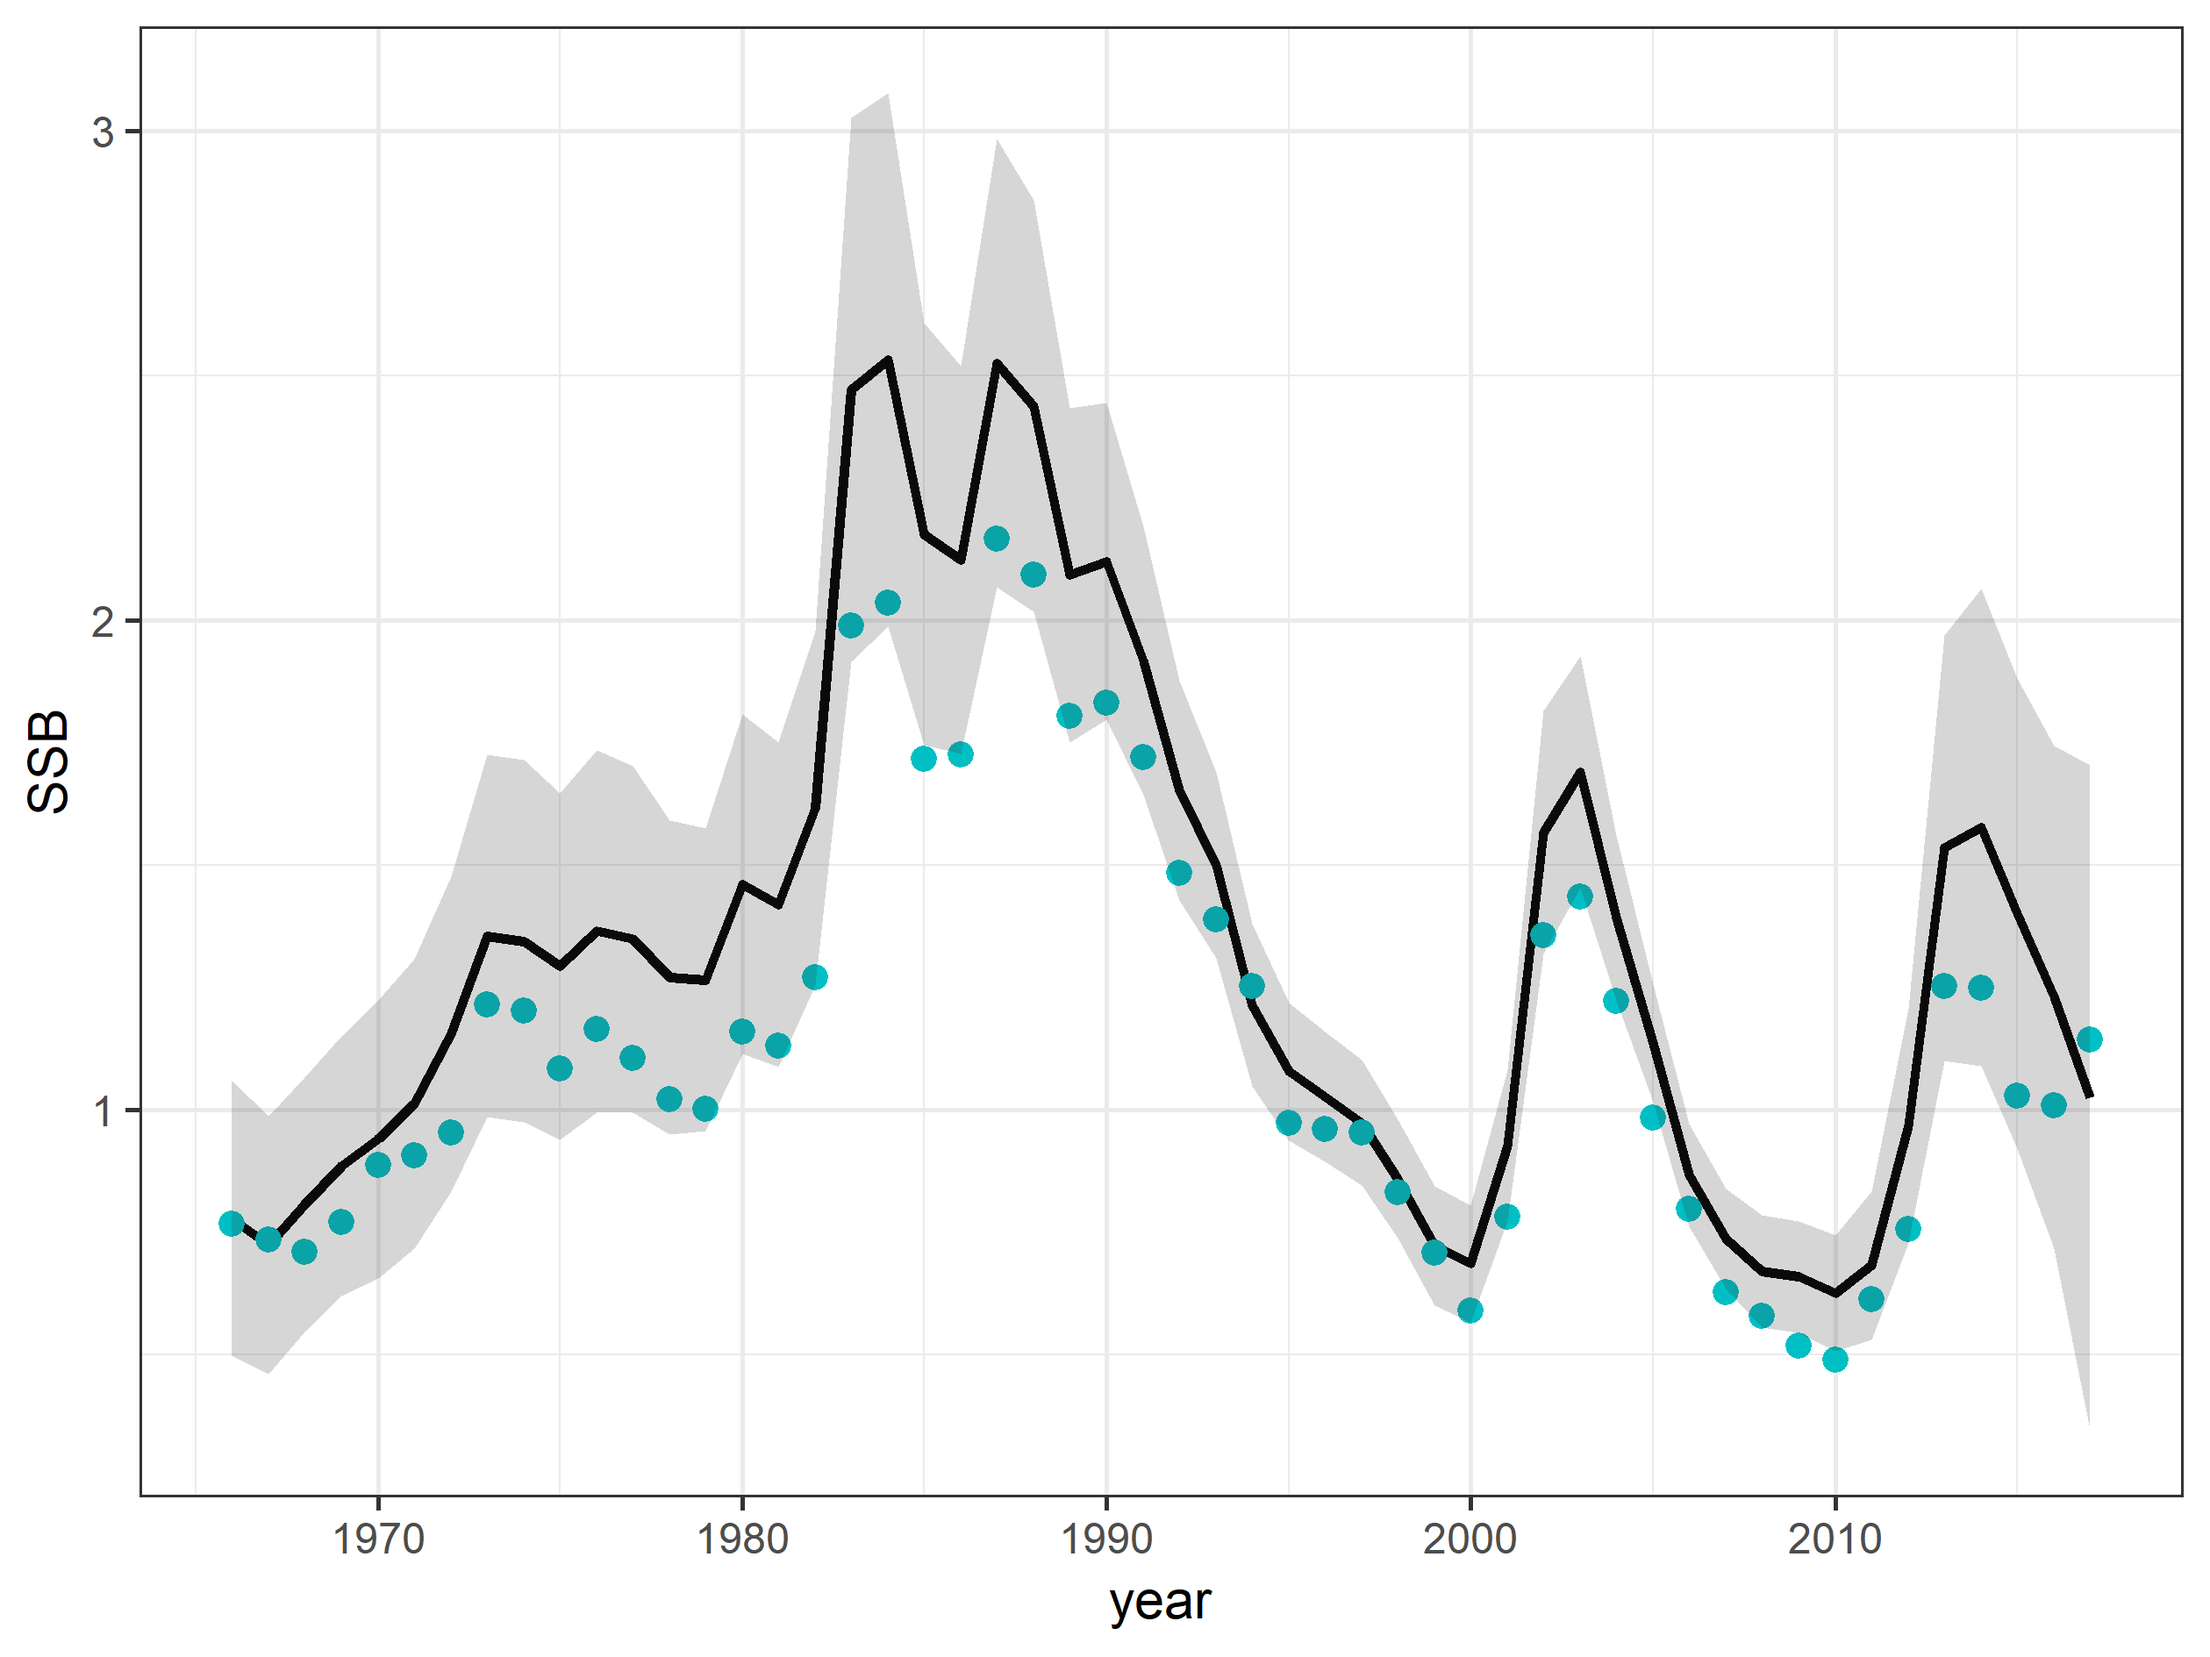
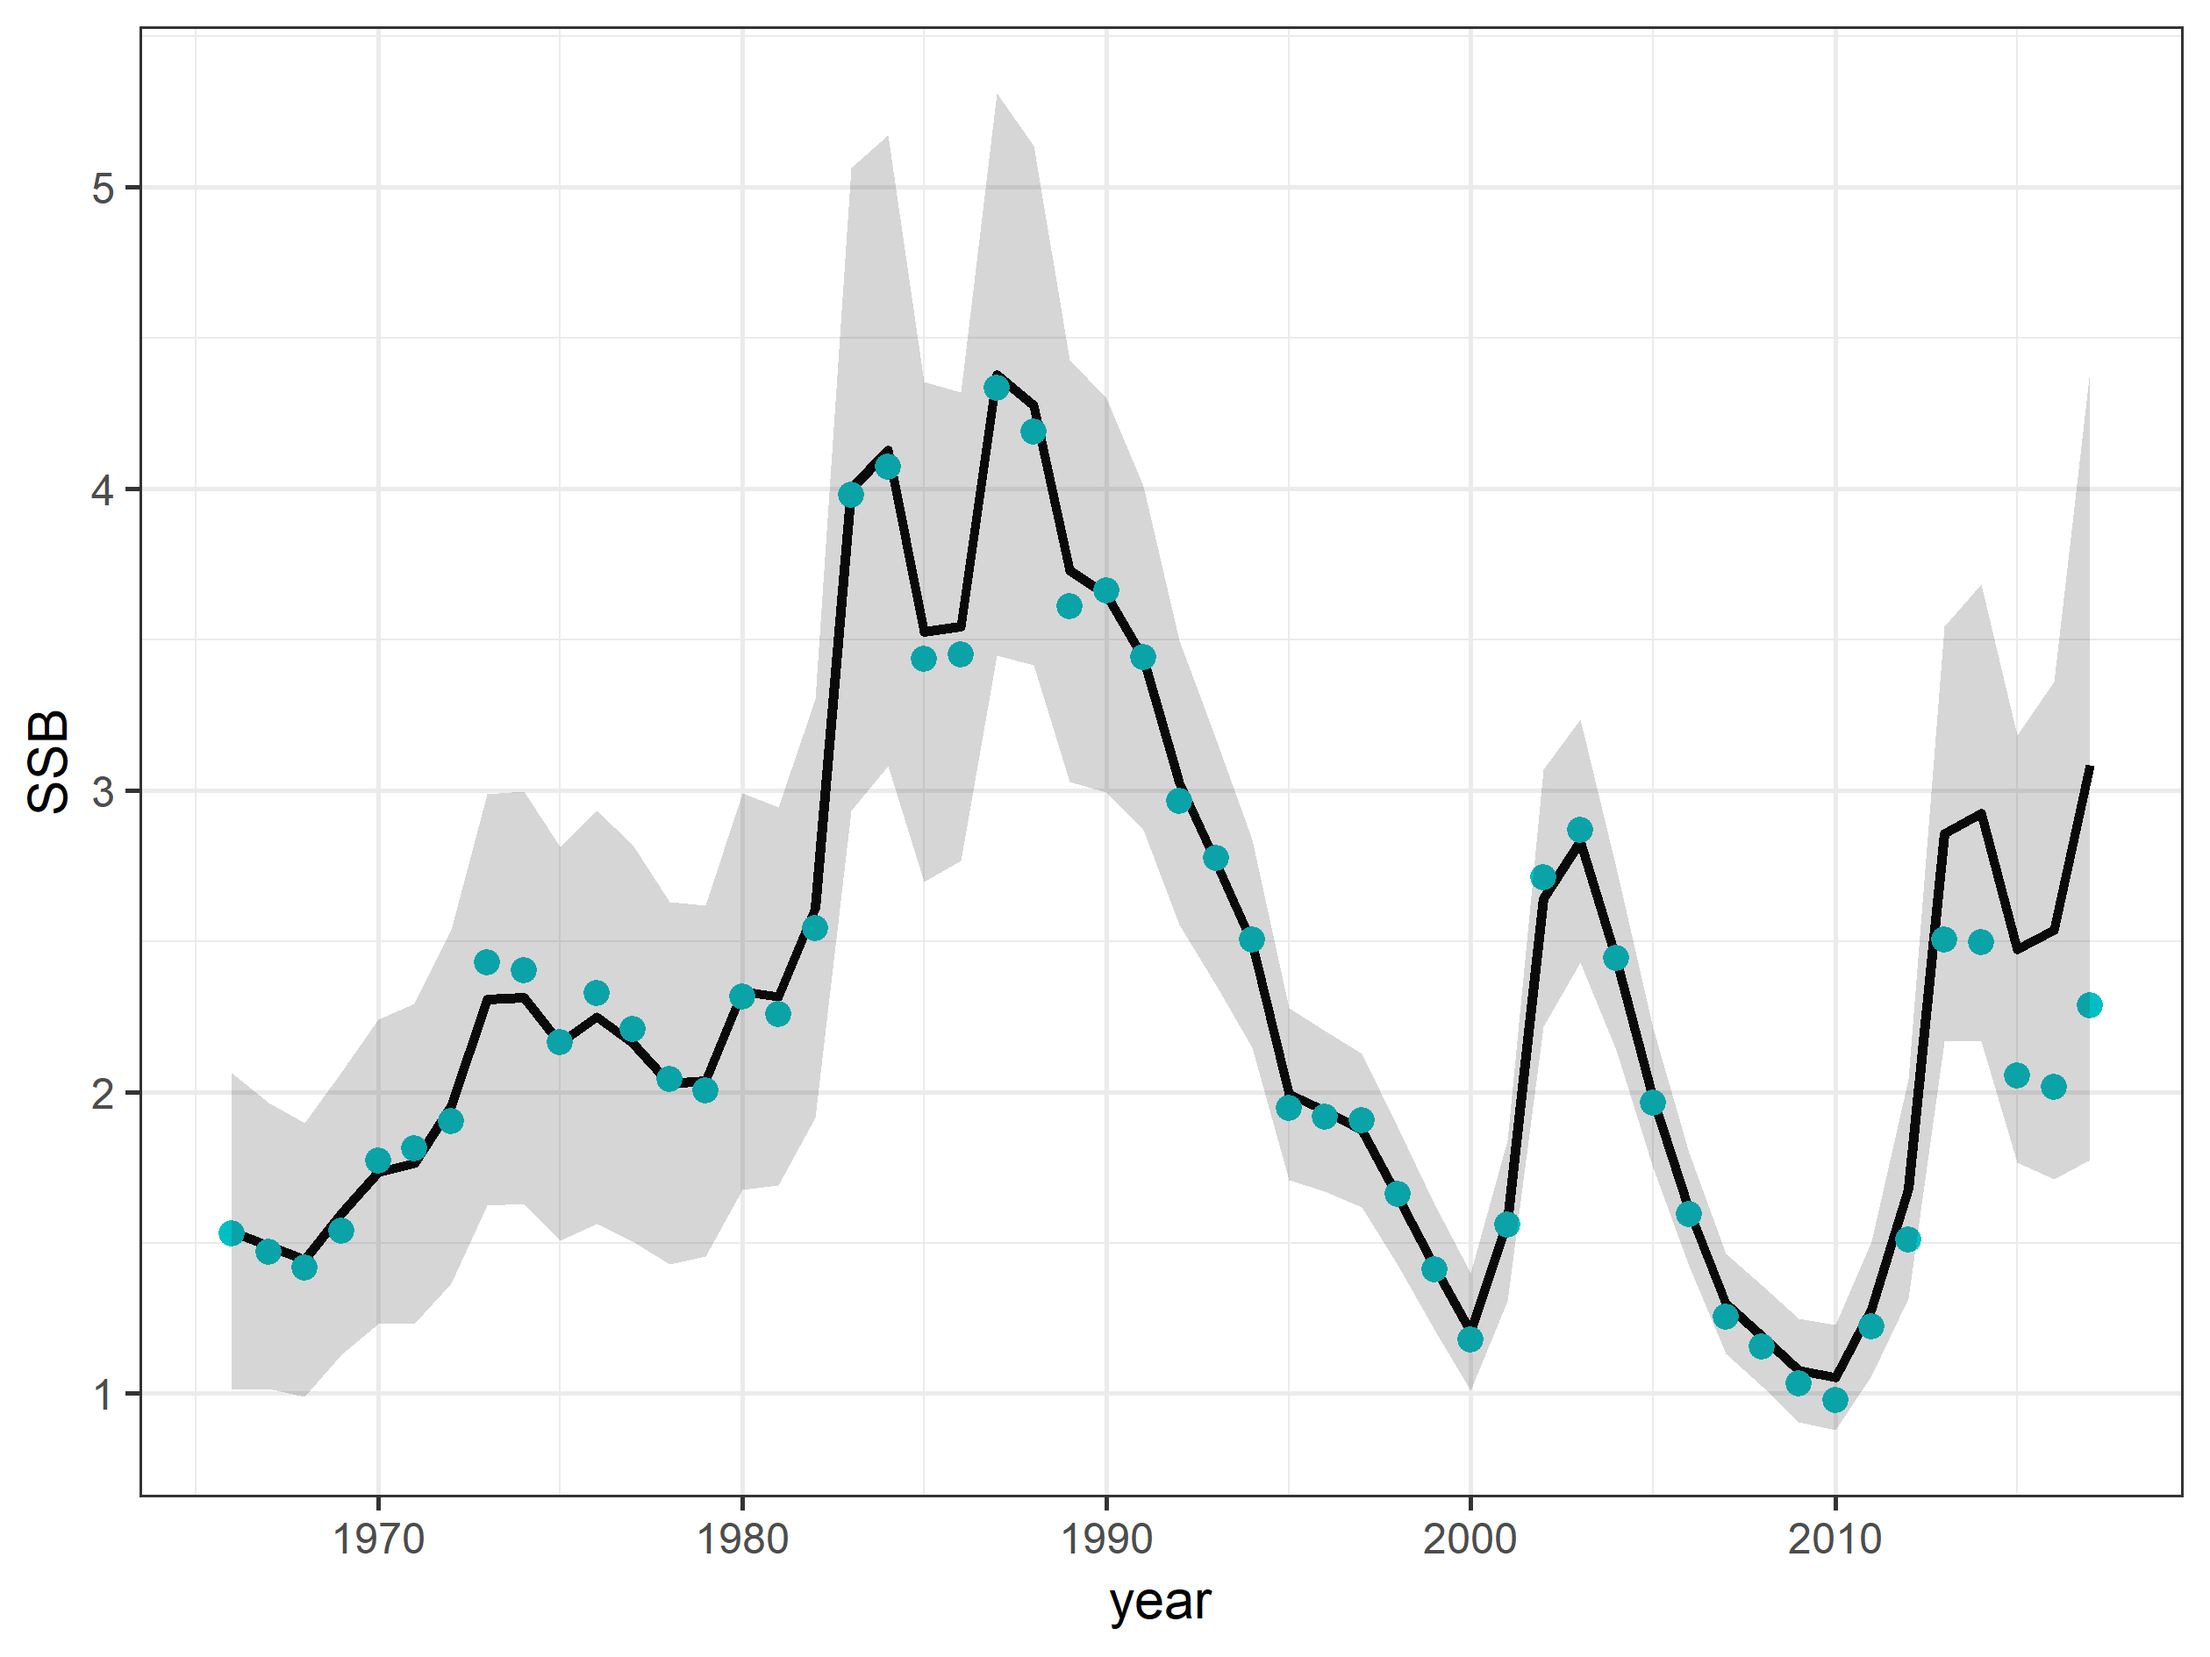
fixes to OM model

diff --git a/Spatial MSE/runHakeassessment_old.cpp b/Spatial MSE/runHakeassessment_old.cpp
@@ -2,17 +2,6 @@
 #include <TMB.hpp>
 #include <iostream>
 
-
-// template <class Type> // Add a cumsum function
-// vector<Type> cumsum(vector<Type> x) {
-//   int n = x.size();
-//   vector<Type> ans(n);
-//   ans[0] = x[0];
-//   for (int i = 1; i < n; i++) ans[i] = x[i] + x[i-1];
-//   return ans;
-// }
-
-
 template<class Type>
 Type objective_function<Type>::operator() ()
 {
@@ -58,6 +47,7 @@ Type objective_function<Type>::operator() ()
 //   // Mortality
   DATA_VECTOR(Msel); // How mortality scales with age
   DATA_VECTOR(Matsel); // Maturity ogive
+
   // Priors
   DATA_SCALAR(Bprior);
   DATA_SCALAR(Aprior)
@@ -70,8 +60,8 @@ Type objective_function<Type>::operator() ()
   //PARAMETER(logSDR);
 
   PARAMETER(logphi_catch);
-  //PARAMETER(logphi_survey);
   PARAMETER(logphi_survey);
+  //DATA_SCALAR(logphi_survey);
   PARAMETER_VECTOR(psel_fish);
   PARAMETER_VECTOR(psel_surv);
   PARAMETER_VECTOR(initN);
@@ -106,12 +96,12 @@ Type objective_function<Type>::operator() ()
 for(int j=0;j<(tEnd-1);j++){
       logR(j)=Rin(j);
 }
-logR(tEnd-1) = 0;
+logR(tEnd-1) = Type(0.0);
 
 // selectivity
 // survey
 vector<Type>surveyselc(nage);
-Type pmax = sum(psel_surv);
+Type pmax = max(cumsum(psel_surv));
 Type ptmp = 0;
 
 for(int j=0;j<nage;j++){ // Fix the survey selectivity
@@ -132,7 +122,7 @@ for(int j=0;j<nage;j++){ // Fix the survey selectivity
 }
 // Fishing mortality
 vector<Type> catchselec(nage);
-Type pmax_catch = sum(psel_fish);
+Type pmax_catch = max(cumsum(psel_fish));
 Type ptmp_catch = 0;
 //
 for(int time=0;time<tEnd;time++){ // Start time loop
@@ -156,16 +146,14 @@ for(int time=0;time<tEnd;time++){ // Start time loop
 
 
 vector<Type> Nzero(nage); // Numbers with no fishing
-//vector<Type>Meq = cumsum(M);
+vector<Type>Meq = cumsum(M);
 //
 Nzero(0) = Rinit;
 for(int i=1;i<(nage-1);i++){
-    Nzero(i) = Rinit * exp(-(M(i)*age(i)));
+    Nzero(i) = Rinit * exp(-(Meq(i-1)));
   }
 //
-// Nzero(nage-1) = Rinit*exp(-(M(nage-2)*age(nage-2)))/(Type(1.0)-exp(-M(nage-1)));//*exp(initN(nage-2)); // Plus group
-
-Nzero(nage-1) = (Rinit*exp(-(M(nage-2)*age(nage-1))))/(Type(1.0)-exp(-M(nage-1)));
+Nzero(nage-1) = Rinit*exp(-(Meq(nage-2)))/(Type(1.0)-exp(-M(nage-1)));//*exp(initN(nage-2)); // Plus group
 
 array<Type> SSBage(nage);
 array<Type> Catchinit(nage);
@@ -174,34 +162,35 @@ Type SSBzero = 0;
 vector<Type> Zzero = M;
 
 for(int i=0;i<nage;i++){ // Loop over ages
-    SSBzero += Matsel(i)*Nzero(i);
+    SSBzero += Matsel(i)*Nzero(i)*0.5;
   }
 // Run the initial distribution
- REPORT(SSBzero);
+array<Type>Ninit(nage,nage);
+array<Type>SSBinit(nage);
 
-// Type SSBinit = 0;
+REPORT(SSBzero);
+
+for(int i=0;i<(nage);i++){ // Loop over other ages
+    Ninit(i,0) = Nzero(i);
+  }
+  SSBinit(0) = SSBzero;
+
+Ninit(0,nage-1) = Rinit;
+for(int i=1;i<(nage-1);i++){
+    Ninit(i,nage-1) = Rinit * exp(-(Meq(i-1)))*exp(-0.5*0*SDR*SDR+initN(i-1));
+  }
 //
-// // for(int i=0;i<(nage);i++){ // Loop over other ages
-// //     Ninit(i,0) = Nzero(i);
-// //   }
-// Ninit(0) = Rinit;
-// for(int i=1;i<(nage-1);i++){
-//     Ninit(i) = Rinit * exp(-(M(i)*age(i)))*exp(-0.5*0*SDR*SDR+initN(i-1));
-//   }
-// //
-// Ninit(nage-1) = Rinit*exp(-(M(nage-1)*age(nage-1)))/(Type(1.0)-exp(-M(nage-1)))*exp(-0.5*0*SDR*SDR+initN(nage-2));
-//
-// for(int i=0;i<(nage);i++){ // Loop over other ages
-//   SSBinit += Ninit(i)*Matsel(i)*0.5;
-// }
+Ninit(nage-1,nage-1) = Rinit*exp(-(Meq(nage-2)))/(Type(1.0)-exp(-M(nage-1)))*exp(-0.5*0*SDR*SDR+initN(nage-2));
+
+  for(int i=0;i<(nage-1);i++){ // Loop over other ages
+    SSBinit(nage-1) += Ninit(i,nage-1)*Matsel(i)*0.5;
+}
 
 // Plus group
 vector<Type>Catch(tEnd);
 vector<Type>CatchN(tEnd);
-array<Type> N_beg(nage,tEnd+1);
-array<Type> N_mid(nage,tEnd+1);
-N_beg.setZero();
-N_mid.setZero();
+array<Type> N(nage,tEnd);
+
 // }
 // // Run the model over time
 array<Type> SSB(tEnd);
@@ -209,12 +198,7 @@ array<Type>Surveyobs(tEnd); // Survey observed Surveyobs
 array<Type>Surveyobs_tot(tEnd); // Total Surveyobs over age 2
 array<Type>age_survey_est(age_maxage,tEnd);
 array<Type>age_catch_est(age_maxage,tEnd);
-array<Type>Zsave(nage,tEnd);
 //
-age_survey_est.setZero();
-age_catch_est.setZero();
-Catch.setZero();
-CatchN.setZero();
 vector<Type> Myear = M*Msel; // Natural mortality (if we want to change it later)
 //
 vector<Type> Fyear(tEnd);
@@ -222,15 +206,13 @@ vector<Type> Freal(nage);
 vector<Type> Z(nage);
 vector<Type>pmax_catch_save(tEnd);
 vector<Type>psel_fish_zero = psel_fish;
-vector<Type>Catchsave(tEnd);
-//vector<Type>Fpope(tEnd);
 
-// vector<Type>Bmid(nage); // Biomass at the middle of the year
-// // vector<Type>test(3);
-// // test = cumsum(test);
-// REPORT(test)
+Type SSBtmp = 0;
+vector<Type>Ntmp(nage);
+vector<Type>Nmid(nage); // Numbers at the middle of the season
 
-for(int time=0;time<(tEnd);time++){ // Start time loop
+
+for(int time=0;time<tEnd;time++){ // Start time loop
 
     Type Ntot_survey = 0;
     pmax_catch_save(time) = pmax_catch;
@@ -239,7 +221,7 @@ for(int time=0;time<(tEnd);time++){ // Start time loop
            for(int i=0;i<psel_fish.size();i++){
            psel_fish(i) = psel_fish_zero(i)+PSEL(i,time-selYear+1);
            }
-           pmax_catch = sum(psel_fish);
+           pmax_catch = max(cumsum(psel_fish));
            pmax_catch_save(time) = pmax_catch;
 
            for(int j=0;j<(nage);j++){ // Fix the Catch selectivity
@@ -256,71 +238,70 @@ for(int time=0;time<(tEnd);time++){ // Start time loop
              }
            }
          }
-
-
-       Catch(time) = 0;
-
-       Fyear(time) = F0(time);
-
-
-
-    if (time == 0){
-      for(int i=1;i<(nage-1);i++){
-        N_beg(i,time) = Rinit * exp(-0.5*0*SDR*SDR+initN(i-1))*exp(-Myear(i)*age(i));
-      }
-        N_beg(nage-1, time) = Rinit * exp(-0.5*0*SDR*SDR+initN(nage-2)) * exp(-Myear(nage-1) * age(nage-1)) / (1 - exp(-Myear(nage-1)));
-
+  if (time == 0){
+      for(int j=0;j<(nage);j++){ // Fix the Catch selectivity
+      Ntmp(j) = Ninit(j,nage-1);
     }
+      SSBtmp = SSBinit(nage-1);
+  }else{
+    for(int j=0;j<(nage);j++){ // Fix the Catch selectivity
+     Ntmp(j) = N(j,time-1);
+  }
+      SSBtmp = SSB(time-1);
+}
+  Catch(time) = 0;
 
-    for(int i=0;i<nage;i++){ // Loop over other ages
-         SSB(time) += N_beg(i,time)*Matsel(i); // hat
-      }
+  // Calculate fishing Mortality
 
-    for(int i=0;i<(nage);i++){ // Loop over other ages
-          Freal(i) = Fyear(time)*catchselec(i);
-          Z(i) = Freal(i)+Myear(i);
-          selectivity_save(i,time) = catchselec(i);
-          Zsave(i,time) = Z(i);
+  Fyear(time) = F0(time);
 
+  for(int i=0;i<(nage);i++){ // Loop over other ages
+  Freal(i) = Fyear(time)*catchselec(i);
+  Z(i) = Freal(i)+Myear(i);
 
-     }
+  selectivity_save(i,time) = catchselec(i);
+  }
 
-    R(time) = (4*h*Rinit*SSB(time)/(SSBzero*(1-h)+ SSB(time)*(5*h-1)))*exp(-0.5*b(time)*SDR*SDR+logR(time));
-    N_beg(0,time) = R(time); // First one is recruits
+  //Recruitment
+    R(time) = (4*h*Rinit*SSBtmp/(SSBzero*(1-h)+ SSBtmp*(5*h-1)))*exp(-0.5*b(time)*SDR*SDR+logR(time));
+
+    N(0,time) = R(time); // First one is recruits
     //
-
-
-    for(int i=0;i<(nage-1);i++){ // Loop over other ages
-    N_mid(i,time) = N_beg(i,time)*exp(-Z(i)*0.5);
-    N_beg(i+1,time+1) = N_beg(i,time)*exp(-Z(i));
+    for(int i=1;i<(nage-1);i++){ // Loop over other ages
+    N(i,time) = Ntmp(i-1)*exp(-Z(i-1));
     }
-    // // Plus group
-    N_mid(nage-1, time) = N_beg(nage-2,time)*exp(-Z(nage-2)*0.5)+N_beg(nage-1,time)*exp(-Z(nage-1)*0.5);
-    N_beg(nage-1, time+1) = N_beg(nage-2,time)*exp(-Z(nage-2))+N_beg(nage-1,time)*exp(-Z(nage-1));
-
+    // Plus group
+    N(nage-1, time) = Ntmp(nage-2)*exp(-Z(nage-2))+Ntmp(nage-1)*exp(-Z(nage-1));
+    //
     Catch(time) = 0;
 
     for(int i=0;i<nage;i++){ // Loop over other ages
-        CatchAge(i,time)= (Freal(i)/(Z(i)))*(1-exp(-Z(i)))*N_beg(i,time)*wage_catch(i,time);// Calculate the catch in kg
-        CatchNAge(i,time)= (Freal(i)/(Z(i)))*(1-exp(-Z(i)))*N_beg(i,time);// Calculate the catch in kg
-        Catch(time) += CatchAge(i,time);
-        CatchN(time) += CatchNAge(i,time);
+    CatchAge(i,time)= (Freal(i)/(Z(i)))*(1-exp(-Z(i)))*N(i,time)*wage_catch(i,time);// Calculate the catch in kg
+    CatchNAge(i,time)= (Freal(i)/(Z(i)))*(1-exp(-Z(i)))*N(i,time);// Calculate the catch in kg
+    Catch(time) += CatchAge(i,time);
+    CatchN(time) += CatchNAge(i,time);
+    
+    Surveyobs(time) += surveyselc(i)*wage_survey(i,time)*N(i,time)*q;
+    Ntot_survey += surveyselc(i)*N(i,time); // To use with age comps
+    }
 
-        Surveyobs(time) += surveyselc(i)*wage_survey(i,time)*N_mid(i,time)*q;
-        Ntot_survey += surveyselc(i)*N_mid(i,time); // To use with age comps
-      }
-
-
-      if(flag_survey(time) == 1){ // Flag if  there was a measurement that year
-
-        for(int i=0;i<(nage-1);i++){ // Loop over other ages
-          if(i < age_maxage){
-          age_survey_est(i,time) = (surveyselc(i+1)*N_mid(i+1,time))/Ntot_survey;
-          }else{
-          age_survey_est(age_maxage-1,time) += (surveyselc(i+1)*N_mid(i+1,time))/Ntot_survey;
-          }
+    if(flag_survey(time) == 1){ // Flag if  there was a measurement that year
+      
+      for(int i=0;i<(nage-1);i++){ // Loop over other ages
+        if(i < age_maxage){
+          age_survey_est(i,time) = ((surveyselc(i+1)*N(i+1,time))/Ntot_survey);
+        }else{
+          age_survey_est(age_maxage-1,time) += ((surveyselc(i+1)*N(i+1,time))/Ntot_survey);
         }
-      }  //Recruitment
+      }
+    }
+    
+    
+    
+    for(int i=0;i<nage;i++){ // Loop over other ages
+    SSB(time) += N(i,time)*Matsel(i)*0.5; // Change zero to time later
+    }
+    // //
 
     if(flag_catch(time) == 1){ // Flag if  there was a measurement that year
 
@@ -333,7 +314,6 @@ for(int time=0;time<(tEnd);time++){ // Start time loop
      }
    }
  }
-
 
 // // // Make the observation model
 // using namespace density;
@@ -451,11 +431,12 @@ Type ans = ans_SDR+ans_psel+ans_catch+ans_survey-ans_survcomp-ans_catchcomp+ans_
 // Type ans = 0.0;
 // Report calculations
 ADREPORT(SSB)
-//ADREPORT(N)
+ADREPORT(N)
 ADREPORT(Catch)
 ADREPORT(logF)
 ADREPORT(R)
 ADREPORT(Surveyobs)
+ADREPORT(Ninit)
 ADREPORT(Fyear)
 ADREPORT(surveyselc)
 ADREPORT(catchselec)
@@ -467,18 +448,10 @@ ADREPORT(ans_tot)
 
 REPORT(SSB)
 REPORT(Fyear)
+REPORT(N)
 REPORT(Catch)
 REPORT(R)
-REPORT(Nzero)
-REPORT(ans_tot)
-REPORT(Zsave)
-REPORT(age_survey_est)
-REPORT(age_catch_est)
-REPORT(CatchN)
-REPORT(selectivity_save)
-REPORT(surveyselc)
-REPORT(N_beg)
-REPORT(N_mid)
+
 
   return ans;
 }

diff --git a/Hake SS3/runHakeassessment.cpp b/Hake SS3/runHakeassessment.cpp
@@ -289,13 +289,14 @@ for(int time=0;time<(tEnd);time++){ // Start time loop
     N_beg(0,time) = R(time); // First one is recruits
     //
 
+    Type smul = Type(1);
 
     for(int i=0;i<(nage-1);i++){ // Loop over other ages
-    N_mid(i,time) = N_beg(i,time)*exp(-Z(i)*0.5);
+    N_mid(i,time) = N_beg(i,time)*exp(-Z(i)*smul);
     N_beg(i+1,time+1) = N_beg(i,time)*exp(-Z(i));
     }
     // // Plus group
-    N_mid(nage-1, time) = N_beg(nage-2,time)*exp(-Z(nage-2)*0.5)+N_beg(nage-1,time)*exp(-Z(nage-1)*0.5);
+    N_mid(nage-1, time) = N_beg(nage-2,time)*exp(-Z(nage-2)*0.5)+N_beg(nage-1,time)*exp(-Z(nage-1)*smul);
     N_beg(nage-1, time+1) = N_beg(nage-2,time)*exp(-Z(nage-2))+N_beg(nage-1,time)*exp(-Z(nage-1));
 
     Catch(time) = 0;
